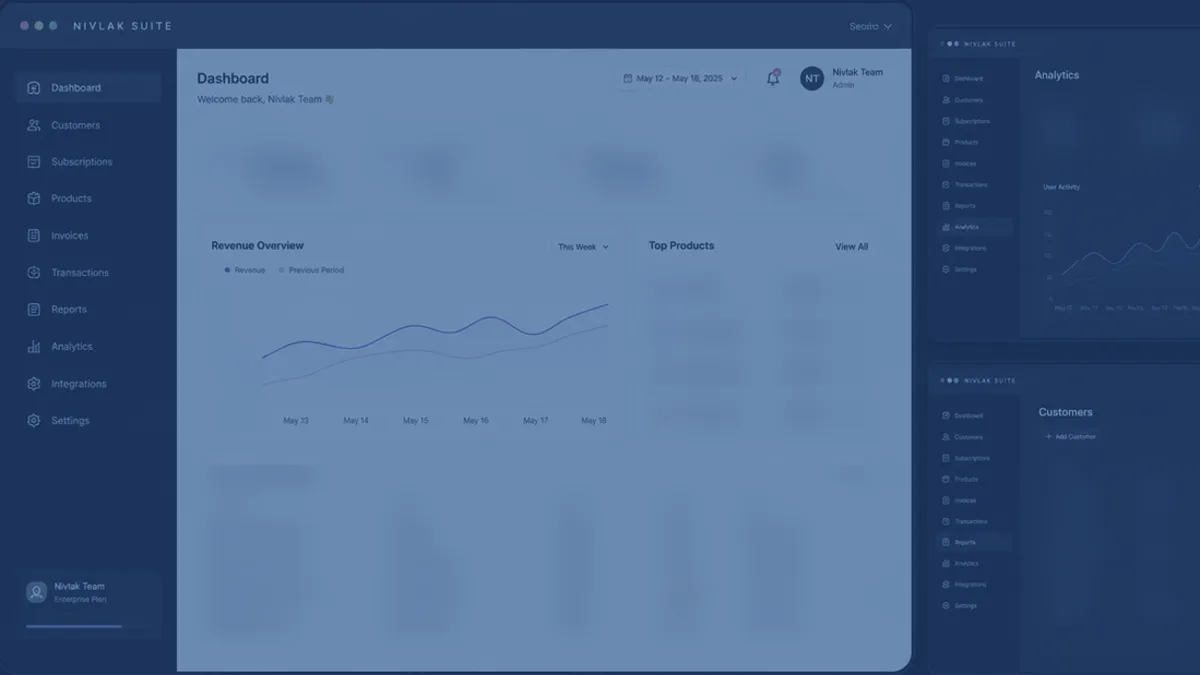
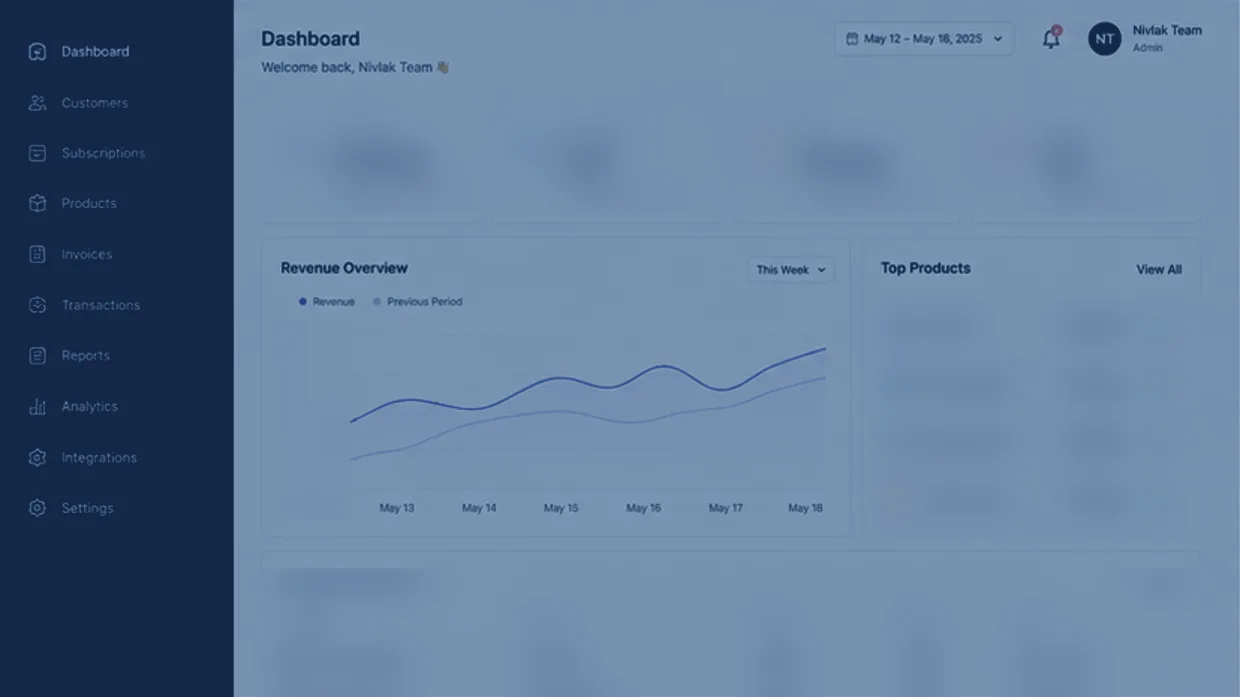
Tone and crop 04's plates the way 03's are
Same SHADOW, HIGHLIGHT, SATURATION, SIGMOIDAL and width as
build-process-plates.sh, because two sets of plates in one book toned
by different arithmetic read as two books. 04's used to run a much
narrower band -- they were 150px specimens beside a ledger then, and a
specimen that competes with the type it annotates is the wrong kind of
loud. That argument retired with the ledger.

Getting there needed the opposite operator from the one this file
used. Gamma cannot touch these at all: a light-mode UI is clipped
white and a dark one clipped black, so there are no midtones to move.
+level, which compresses each source into a narrower range, does land
the medians together and is what shipped; the number that says it was
wrong is the standard deviation -- 0.05 against 03's 0.12 to 0.22,
which is a wash and not a photograph. -level expands instead: it
stretches the band where each source's information actually lives out
to full, and the shared +level-colors then puts it back inside the
book's ink. For the light interfaces the white point runs above 100%,
which is how a white dashboard comes down to the page without being
flattened onto it. All four now sit at median 0.45-0.57, std
0.13-0.20, against 03's 0.25-0.59 and 0.12-0.22.

Every crop now starts below the browser chrome. 03's plates are
photographs of screens in a room and carry none, and a window frame
with traffic lights is the one thing in these pictures that says
[…]

diff --git a/CLAUDE.md b/CLAUDE.md
@@ -471,13 +471,43 @@ percentages and unlabelled charts.** Money hides in axis labels — both revenue
 charts label theirs in lakhs and both needed a box of their own.
 
 The 560px output used to be the backstop that made the redaction true rather
-than merely covered. It is not any more: a full-measure stage needs 1200px
-against crops of 1100-1434, so the resize is about 1:1 and destroys nothing.
+than merely covered. It is not any more: a full-measure stage needs 1240px
+against crops of 828–1337, so the resize is about 1:1 and destroys nothing.
 **The blur is now the whole redaction**, which is why every box has to be proved
 by looking at the OUTPUT at 100%, not by reading the list. Read the header
 before changing a crop or a box; the first run measured the boxes against the
 crop instead of the source and put a smear over a chart while leaving every
 client name legible.
+
+**Two things about the crops are load-bearing and neither is composition.**
+Immediately *below* three of them, still inside the source, sit a table of
+named clients against progress and dates and a paid invoice — they do not ship
+because the crop ends above them, not because anything blurs them. Extending a
+crop downward for a better picture puts them back. And every crop *starts*
+below the browser chrome: 03's plates are photographs of screens in a room and
+carry none, and a window frame with traffic lights is the one thing in these
+pictures that says "export from a mockup tool" rather than "software".
+
+**The tone is 03's, exactly** — same SHADOW, HIGHLIGHT, SATURATION, SIGMOIDAL
+and width, copied from `build-process-plates.sh`, because two sets of plates in
+one book toned by different arithmetic read as two books. Getting there needed
+the *opposite* operator from the one this file first used. Gamma cannot touch
+these at all (a light-mode UI is clipped white, a dark one clipped black —
+there are no midtones to move). `+level`, which compresses each source into a
+narrower range, does land the medians together and is what shipped for one
+revision; the number that says it was wrong is the standard deviation, 0.05
+against 03's 0.12–0.22. That is a wash, not a photograph. `-level` **expands**
+instead — it stretches the band where each source's information actually lives
+out to full, and the shared `+level-colors` then puts it back inside the book's
+ink. For the light interfaces the white point runs *above* 100% (180%, 165%),
+which is how a white dashboard comes down to the page without being flattened
+onto it.
+
+**Every crop keeps its dark sidebar**, and that is not framing either: it is
+the only dark thing in a light-mode screenshot and it is carrying the contrast.
+Cropping past WEB's sidebar measured std 0.050; the same crop with it in
+measures 0.152. Cropping *into* it is worse than either — truncated nav labels
+down the edge read as a mis-crop rather than as an interface.
 
 `tools/build-process-plates.sh` turns the six process photographs into the
 plates of chapter 03. They arrive as finished pictures with no ground to key,
